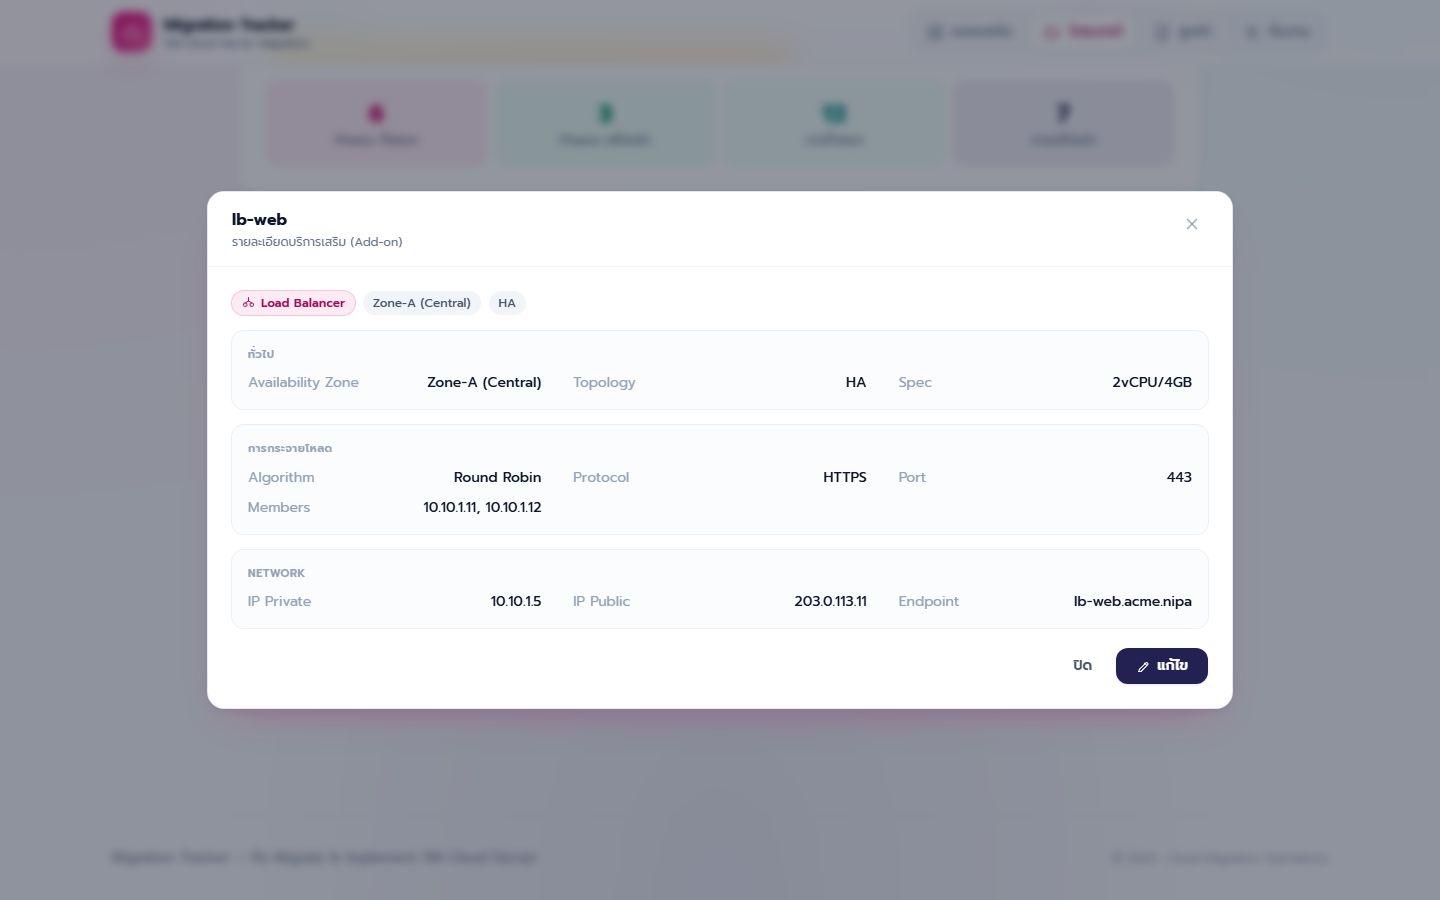
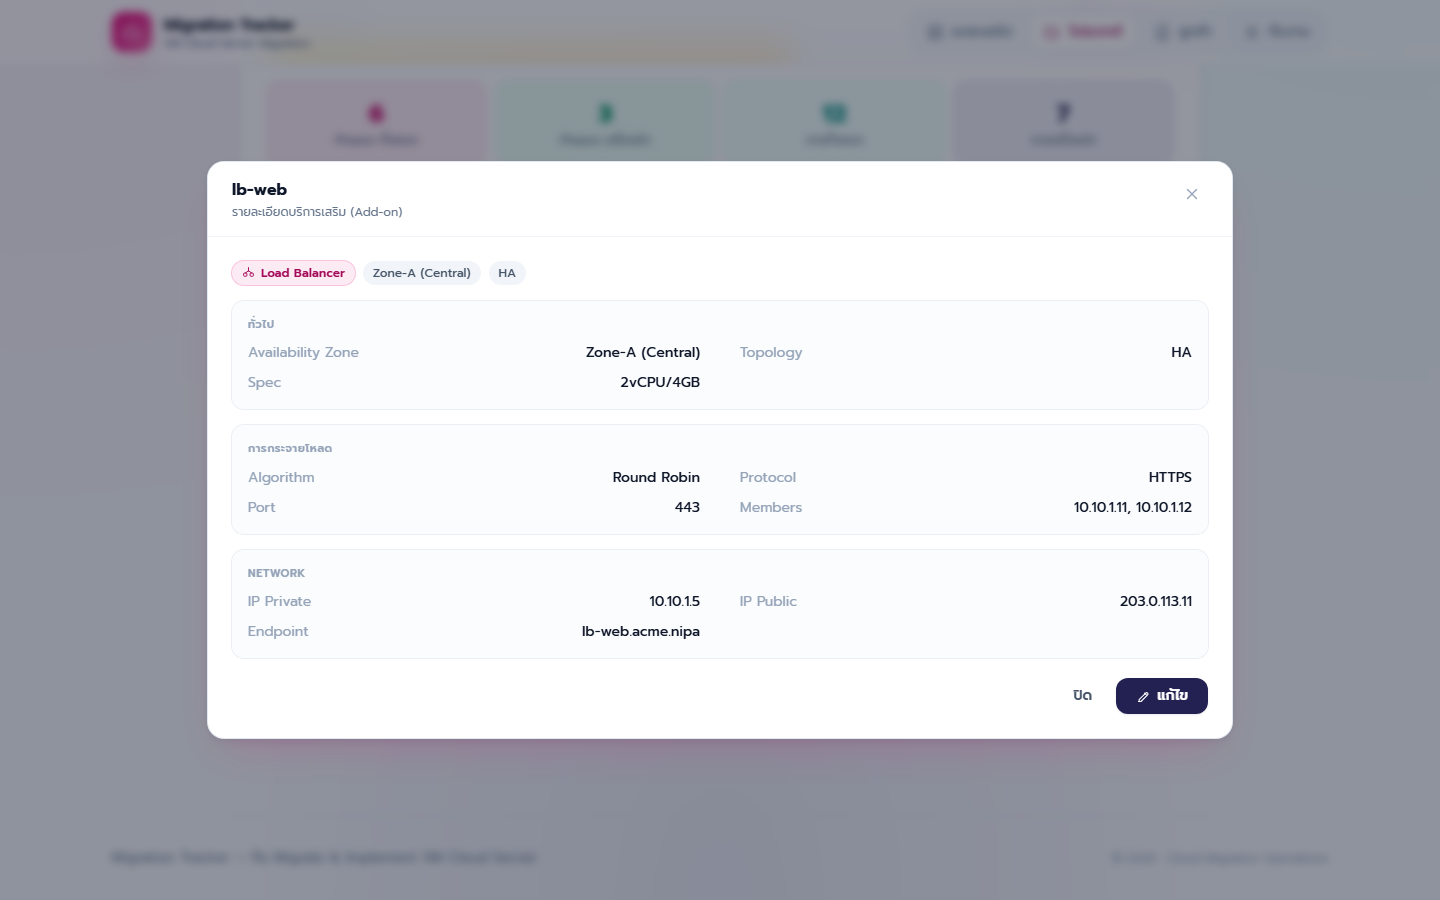
Use 2 columns for detail grids inside popups; restore page card grids
commit ก่อนตีความผิด — ไปเปลี่ยน grid ของการ์ดในหน้าเพจแทนที่จะเป็น grid ข้อมูลใน popup

- คืน grid การ์ดในหน้ากลับเป็นเดิม (ลูกค้า/ทีมงาน lg:3, VMs การ์ด xl:3, Service xl:3)
- เปลี่ยน grid label-value ใน popup รายละเอียด VM และ Service
  จาก sm:2 lg:3 เป็น sm:2 อย่างเดียว และเพิ่มระยะห่างคอลัมน์ gap-x-8 → gap-x-10

ที่จอ 1440px คอลัมน์กว้างขึ้นจาก ~300px เป็น 452px คู่ label-value อยู่ใกล้กันขึ้น
กวาดตาอ่านง่ายกว่า 3 คอลัมน์ และค่ายาวอย่าง "Windows Server 2019 (BYOL)"
กับ "portal.acme-finance.example" ยังอยู่บรรทัดเดียวครบ

diff --git a/src/components/ServicePanel.tsx b/src/components/ServicePanel.tsx
@@ -158,7 +158,7 @@ export default function ServicePanel({ project, active }: { project: Project; ac
               })}
             </div>
 
-            <div className="grid grid-cols-1 md:grid-cols-2 gap-4">
+            <div className="grid grid-cols-1 sm:grid-cols-2 xl:grid-cols-3 gap-4">
               {visible.map((sv) => {
                 const { Icon: SvIcon, tint, chip } = META[sv.type]
                 return (
@@ -236,7 +236,7 @@ export default function ServicePanel({ project, active }: { project: Project; ac
             {detailGroups(detail).map((group, gi) => (
               <div key={gi} className="rounded-xl ring-1 ring-ink-200/70 bg-ink-50/50 p-4">
                 <p className="text-[11px] font-semibold text-ink-400 uppercase tracking-wider mb-2.5">{group.title}</p>
-                <dl className="grid grid-cols-1 sm:grid-cols-2 lg:grid-cols-3 gap-x-8 gap-y-2.5">
+                <dl className="grid grid-cols-1 sm:grid-cols-2 gap-x-10 gap-y-2.5">
                   {group.rows.map((r, i) => (
                     <div key={i} className="flex justify-between gap-3 text-sm">
                       <dt className="text-ink-400 shrink-0">{r.label}</dt>

diff --git a/src/components/AssetPanel.tsx b/src/components/AssetPanel.tsx
@@ -157,7 +157,7 @@ export default function AssetPanel({ project, active }: { project: Project; acti
             </table>
           </div>
         ) : (
-          <div className="p-5 grid grid-cols-1 md:grid-cols-2 gap-4">
+          <div className="p-5 grid grid-cols-1 md:grid-cols-2 xl:grid-cols-3 gap-4">
             {assets.map((a) => (
               <div
                 key={a.id}
@@ -198,7 +198,7 @@ export default function AssetPanel({ project, active }: { project: Project; acti
             {detailGroups(detail).map((group, gi) => (
               <div key={gi} className="rounded-xl ring-1 ring-ink-200/70 bg-ink-50/50 p-4">
                 <p className="text-[11px] font-semibold text-ink-400 uppercase tracking-wider mb-2.5">{group.title}</p>
-                <dl className="grid grid-cols-1 sm:grid-cols-2 lg:grid-cols-3 gap-x-8 gap-y-2.5">
+                <dl className="grid grid-cols-1 sm:grid-cols-2 gap-x-10 gap-y-2.5">
                   {group.rows.map((r, i) => (
                     <div key={i} className="flex justify-between gap-3 text-sm">
                       <dt className="text-ink-400 shrink-0">{r.label}</dt>

diff --git a/src/pages/Customers.tsx b/src/pages/Customers.tsx
@@ -72,7 +72,7 @@ export default function Customers() {
           </button>
         </div>
       ) : (
-        <div className="grid grid-cols-1 md:grid-cols-2 gap-5 stagger">
+        <div className="grid grid-cols-1 md:grid-cols-2 lg:grid-cols-3 gap-5 stagger">
           {customers.map((c, i) => {
             const custProjects = projects.filter((p) => p.customerId === c.id)
             const assetCount = custProjects.reduce((a, p) => a + p.assets.length, 0)

diff --git a/src/pages/Team.tsx b/src/pages/Team.tsx
@@ -33,7 +33,7 @@ export default function Team() {
         </div>
       </div>
 
-      <div className="grid grid-cols-1 md:grid-cols-2 gap-5 mb-8 stagger">
+      <div className="grid grid-cols-1 md:grid-cols-2 lg:grid-cols-3 gap-5 mb-8 stagger">
         {teamMembers.map((member, i) => {
           const memberProjects = projects.filter((p) => member.projects.includes(p.id))
           const totalTasks = memberProjects.reduce(
